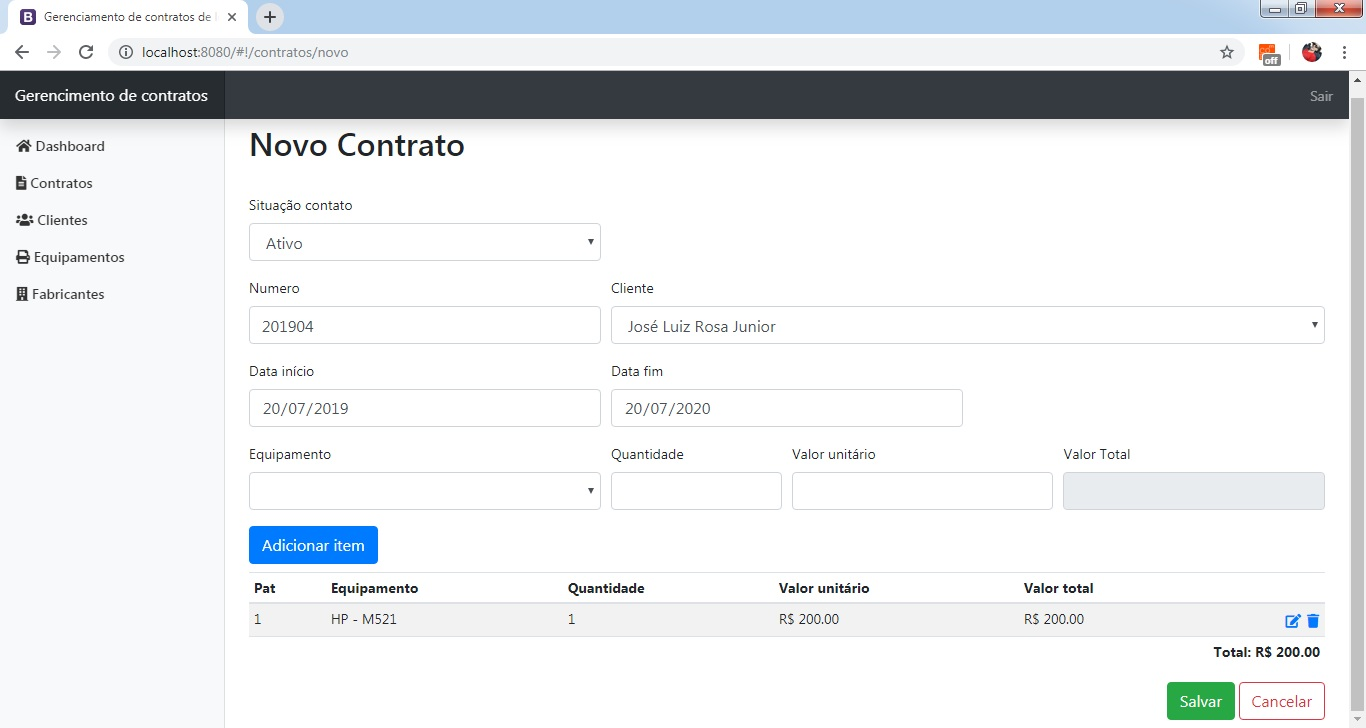
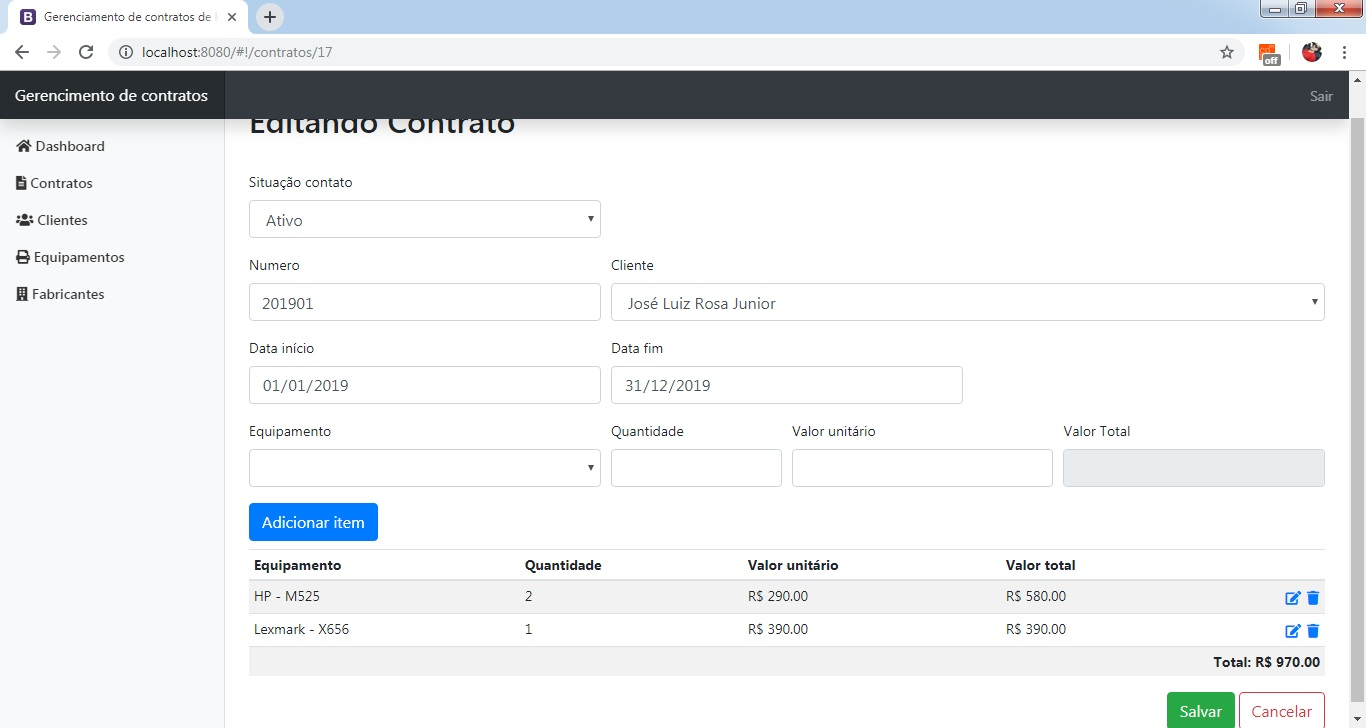
Removendo campo patrimônio

diff --git a/src/main/webapp/views/contratos/form.html b/src/main/webapp/views/contratos/form.html
@@ -37,7 +37,7 @@
     <div class="form-row">
         <div class="form-group col-md-4">
             <label>Equipamento</label>
-            <select ng-options="item as ('PAT: '+item.patrimonio+' - '+item.modelo) for item in vm.equipamentos track by item.id"
+            <select ng-options="item as (item.fabricante.nome+' - '+item.modelo) for item in vm.equipamentos track by item.id"
                 ng-model="vm.equipamentoContrato.equipamento" class="form-control">
             </select>
         </div>
@@ -60,7 +60,6 @@
         <table class="table table-striped table-sm">
             <thead>
                 <tr>
-                    <th>Pat</th>
                     <th>Equipamento</th>
                     <th>Quantidade</th>
                     <th>Valor unitário</th>
@@ -70,7 +69,6 @@
             </thead>
             <tbody>
                 <tr ng-repeat="item in vm.contrato.equipamentosContrato">
-                    <td>{{item.equipamento.patrimonio}}</td>
                     <td>{{item.equipamento.fabricante.nome + ' - ' + item.equipamento.modelo}}</td>
                     <td>{{item.quantidade}}</td>
                     <td>{{item.valorUnitario | currency:'R$ '}}</td>
@@ -85,7 +83,7 @@
                     </td>
                 </tr>
                 <tr>
-                    <td colspan="6" class="text-right font-weight-bold">Total: {{vm.contrato.valorTotal | currency:'R$ '}}</td>
+                    <td colspan="5" class="text-right font-weight-bold">Total: {{vm.contrato.valorTotal | currency:'R$ '}}</td>
                 </tr>
             </tbody>
         </table>

diff --git a/src/main/webapp/views/equipamentos/form.html b/src/main/webapp/views/equipamentos/form.html
@@ -3,19 +3,14 @@
 </div>
 <form>
     <div class="form-row">
-        <div class="form-group col-md-4">
-            <label>Patrimônio</label>
-            <input ng-class="{ 'is-invalid': vm.errors.patrimonio }" ng-model="vm.equipamento.patrimonio" type="text" class="form-control">
-            <div ng-if="vm.errors.patrimonio" class="invalid-feedback">{{vm.errors.patrimonio[1]}}</div>
-        </div>
-        <div class="form-group col-md-4">
+        <div class="form-group col-md-6">
             <label>Fabricante</label>
             <select ng-class="{'is-invalid': vm.error.fabricante}" ng-options="item as item.nome for item in vm.fabricantes track by item.id"
                 ng-model="vm.equipamento.fabricante" class="form-control">
             </select>
             <div ng-if="vm.errors.fabricante" class="invalid-feedback">{{vm.errors.fabricante[1]}}</div>
         </div>
-        <div class="form-group col-md-4">
+        <div class="form-group col-md-6">
             <label>Modelo</label>
             <input ng-class="{ 'is-invalid': vm.errors.modelo }" ng-model="vm.equipamento.modelo" type="text" class="form-control">
             <div ng-if="vm.errors.modelo" class="invalid-feedback">{{vm.errors.modelo[1]}}</div>

diff --git a/src/main/webapp/views/equipamentos/list.html b/src/main/webapp/views/equipamentos/list.html
@@ -23,7 +23,6 @@
     <table class="table table-striped table-sm">
         <thead>
             <tr>
-                <th>Pat</th>
                 <th>Modelo</th>
                 <th>Fabricante</th>
                 <th>Descrição</th>
@@ -32,7 +31,6 @@
         </thead>
         <tbody>
             <tr ng-repeat="item in vm.equipamentos">
-                <td>{{item.patrimonio}}</td>
                 <td>{{item.modelo}}</td>
                 <td>{{item.fabricante.nome}}</td>
                 <td>{{item.descricao}}</td>

diff --git a/src/main/java/com/joseluiz/outsourcing/models/Equipamento.java b/src/main/java/com/joseluiz/outsourcing/models/Equipamento.java
@@ -21,9 +21,6 @@ public class Equipamento implements Entidade{
     @Column(name = "I_EQUIPAMENTOS")
     @GeneratedValue(generator = "equipamento_seq", strategy = GenerationType.SEQUENCE)
     private Long id;
-    @NotNull(message = "O campo patrimônio não pode ser nulo")
-    @Column(unique = true)
-    private Long patrimonio;
     @NotNull(message = "O campo fabricante não pode ser nulo")
     private Fabricante fabricante;
     @NotNull(message = "O campo modelo não pode ser nulo")
